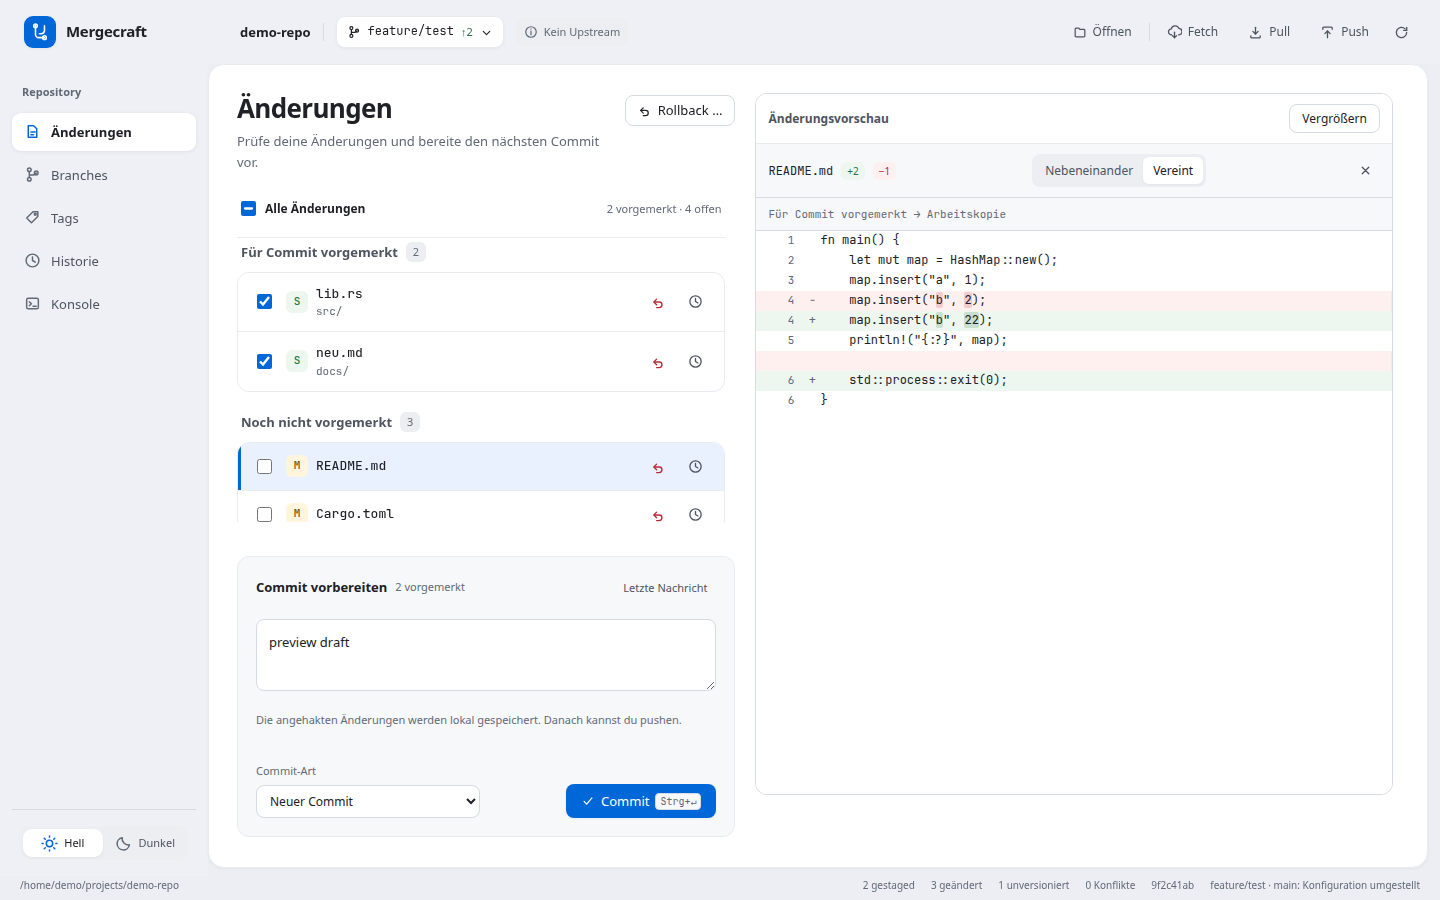
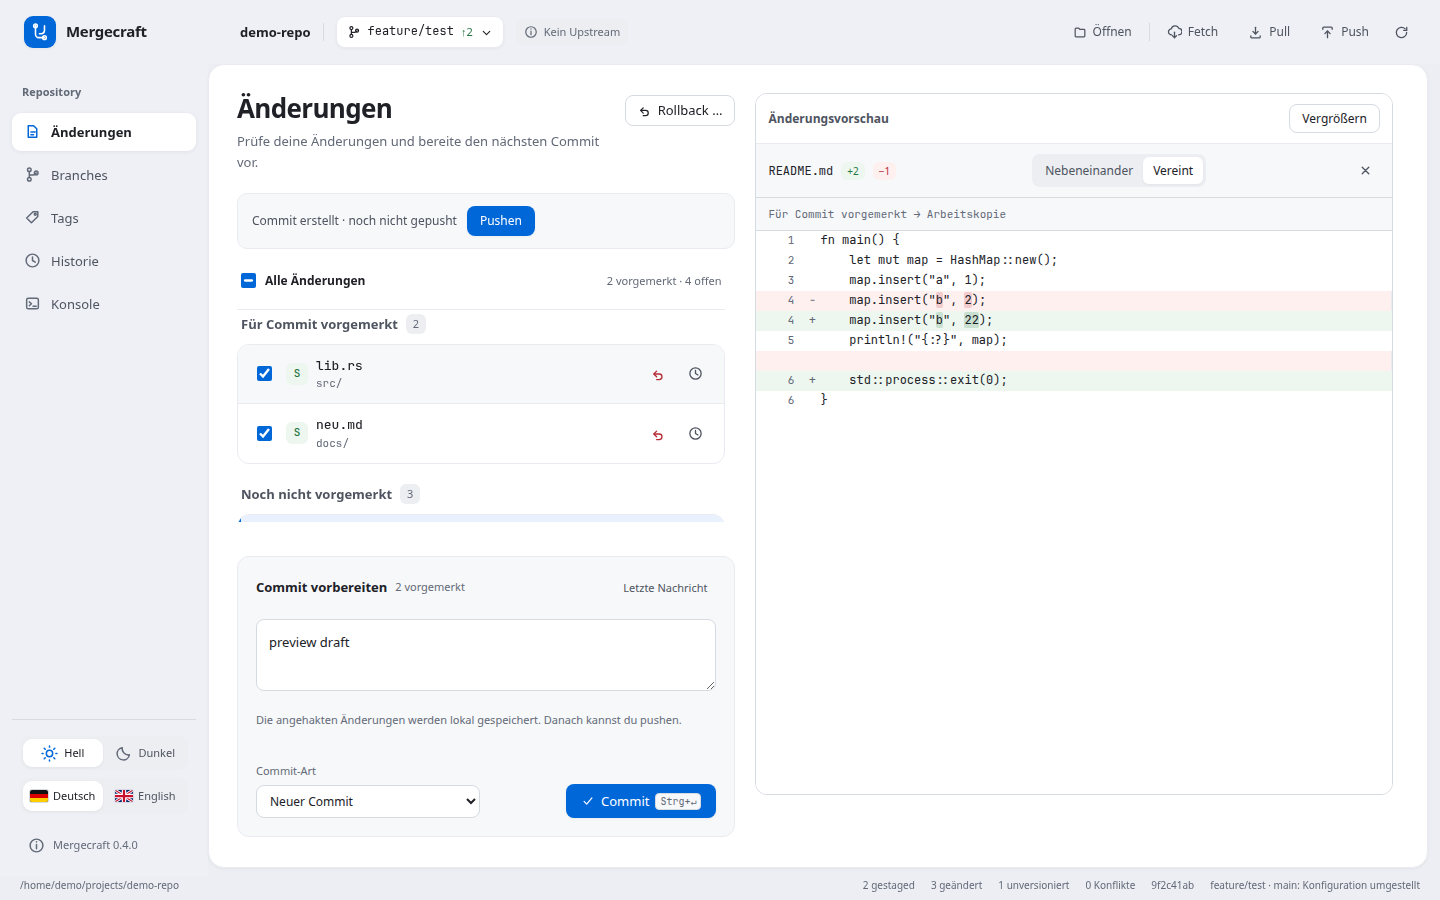
Refresh v0.4.0 screenshots and document the complete merge workflow

diff --git a/src/apple.css b/src/apple.css
@@ -639,3 +639,6 @@ button:focus-visible, input:focus-visible, textarea:focus-visible, select:focus-
 @media(max-width:768px) { .merge-workspace { flex-direction:column; } .merge-files { width:100%; max-height:100px; border-right:0; } .merge-width { display:none; } }
 
 .merge .merge-head { position:relative; z-index:20; overflow:visible; }
+
+/* Preserve code and paragraph boundaries in merge preview dialogs. */
+.modal .detail { white-space:pre-wrap; overflow-wrap:anywhere; max-height:50vh; overflow:auto; }

diff --git a/README.md b/README.md
@@ -30,7 +30,7 @@
 | --- | --- |
 | **Changes** | Review inline diffs, select files with staging checkboxes, create commits, amend the last commit, or roll back selected tracked files to HEAD. |
 | **Branches** | Search, filter and sort favorites, local branches and remote branches. Create, switch, compare and merge branches. |
-| **Merge editor** | Compare local, result and incoming text side by side. Accept either side or both, review automatic proposals, edit the result, and undo decisions. |
+| **Merge editor** | Navigate conflict files, keep drafts and undo history while switching, resize the result pane, and review explainable automatic proposals. |
 | **Tags & history** | Browse tags and commits, inspect changed files, compare revisions and follow a file's history. |
 | **Remotes** | Fetch, pull and push using your existing Git configuration and credential helpers. See unpublished commits and incoming changes. |
 
@@ -42,16 +42,45 @@ The interface supports **German and English**. Switch languages using the labele
 
 Switch immediately between **Deutsch** and **English** without reopening the repository. Drafts, filters, staging selections and merge-editor text/history stay in place. Dates and app-generated messages follow the selected language; your repository content and raw Git output are preserved.
 
-## Resolve conflicts with context
+## Follow a merge from conflict to push
 
-![Three-way conflict editor with local and incoming source panes and an editable result](docs/screenshots/mergecraft-merge.png)
+![Merge workspace showing main flowing into feature/refactor, three conflict files, and safe, review-required and manual regions](docs/screenshots/mergecraft-merge-overview.png)
 
-- **Accept local, incoming, or both** for an individual conflict; bulk actions preserve existing decisions.
-- **Auto Resolve** proposes compatible edits, including simple independent changes within a line or across multiple lines. Review each proposal before accepting it; overlapping and ambiguous edits stay manual.
-- **Undo / redo** decisions and text edits, or reset the current file's preview.
-- **Save** writes the result. **Save and mark resolved** also stages it. Unresolved conflict markers prevent marking a file resolved.
-- **Abort merge** uses `git merge --abort` for the running merge, including previously saved conflict resolutions. It does not rewrite completed merge commits. Git may be unable to reconstruct the original state if local changes existed before the merge.
-- Binary and non-UTF-8 files are handled as whole-side choices. Modify/delete conflicts also support deletion.
+**Incoming → current branch** stays visible above the three panes. The file list shows what remains open, what needs review and what is resolved. Give the result more space using the width control; decisions and text stay in place as you move between files.
+
+- **Auto Resolve** previews combinations of separate text ranges and explains why they can be combined. Accepting a batch preserves existing decisions and can be undone in one step.
+- **Review proposals** for independent edits within the same line individually. Overlaps and ambiguous edits require your decision. Automatic text combinations do not guarantee logically correct code.
+- **Accept left, accept right, edit, or left → right** for a single conflict. The last option concatenates both versions in the stated order.
+- **Save** keeps a partial result. **Apply & next file** saves and stages a resolved file. Conflict markers block resolution; stale worktree or index contents block overwriting external changes.
+- **Undo / redo**, reset the file preview, or **abort the running merge**. Abort includes saved resolutions; it does not undo completed merge commits. Git can be unable to restore the original state if local changes existed before the merge.
+
+Drafts and undo history are kept in memory for the current merge-editor session. Large conflict regions are analyzed in a background worker. Binary/non-UTF-8 files and modify/delete conflicts use explicit whole-side choices.
+
+<details>
+<summary>See the automatic preview and a proposal that needs review</summary>
+
+![Auto Resolve previews a separate-range combination before applying it](docs/screenshots/mergecraft-auto-resolve.png)
+
+![Same-line proposal expanded for individual review while a different conflict remains manual](docs/screenshots/mergecraft-review-proposal.png)
+
+</details>
+
+### Resolve → finish merge → push
+
+Resolving files prepares the result. **Finish merge** creates the merge commit. **Push** sends committed changes to the remote. Each step stays visible so a local preview cannot be mistaken for a published change.
+
+<details>
+<summary>See the resolved result, merge completion and pending push</summary>
+
+![All regions in the current file resolved, with the result ready to save](docs/screenshots/mergecraft-merge-resolved.png)
+
+![All three conflict files resolved and staged; Finish merge is the next action](docs/screenshots/mergecraft-finish-merge.png)
+
+![Merge committed locally with an explicit pending-push status](docs/screenshots/mergecraft-ready-to-push.png)
+
+</details>
+
+See the [merge workflow guide](docs/merging.md) for details.
 
 ## Review before you commit
 
@@ -70,7 +99,7 @@ Mergecraft currently targets Linux with GTK 3 and WebKitGTK 4.1. Windows and mac
 Download the `.deb` package from [Releases](https://github.com/Mohr90/mergecraft/releases), then install it on a compatible Debian/Ubuntu system:
 
 ```bash
-sudo apt install ./Mergecraft_0.3.1_amd64.deb
+sudo apt install ./Mergecraft_*.deb
 mergecraft /path/to/repository
 ```
 
@@ -93,7 +122,7 @@ npm ci
 npm run dev:web
 ```
 
-Open the local URL shown by Vite. Browser mode uses synthetic demo data and does not operate on a real repository. All screenshots in this README were captured in that demo/test mode; they contain no private repository data.
+Open the local URL shown by Vite. Browser mode uses synthetic demo data and does not operate on a real repository. Screenshots show the v0.4.0 interface using synthetic demo data, including a complete conflict-resolution tour. They contain no private repository data. The source version on `main` may be newer than the latest downloadable release.
 
 For the native application:
 

diff --git a/docs/guide.de.md b/docs/guide.de.md
@@ -31,13 +31,21 @@ Beim Wechsel zu einem Remote-Branch wird ein lokaler Tracking-Branch angelegt. E
 
 Checke zuerst den Zielbranch aus. Wähle dann beim Quellbranch **Mergen**, etwa `origin/master` in deinem Feature-Branch. Direkte lokale Merges nach `main` oder `master` werden in der GUI bewusst nicht angeboten; dafür ist ein Merge Request bzw. Pull Request auf dem Server vorgesehen.
 
-Bei Konflikten zeigt der Editor **Lokal · Ergebnis · Eingehend**. Übernimm je Bereich eine Seite, beide oder bearbeite den Ergebnistext. **Auto Resolve** liefert prüfbare Vorschläge für einfache, unabhängige Änderungen und lässt mehrdeutige Fälle offen. Die Vorschläge werden erst nach Übernahme Teil der Vorschau und erst nach Speichern auf die Platte geschrieben.
+Bei Konflikten zeigt der Editor **Aktueller Branch · Ergebnis · Eingehender Branch**. Die Richtung steht darüber, etwa `main → feature/refactor`. Links kannst du zwischen Konfliktdateien wechseln; Entscheidungen, Text, Scrollposition und Undo-Verlauf bleiben während dieser Editor-Sitzung erhalten. Über **Ergebnisbreite** passt du die Spalten an.
 
-- **Rückgängig/Wiederholen** gilt für Entscheidungen und Texte in der aktuellen Datei.
-- **Auswahl zurücksetzen** setzt die Vorschau dieser Datei auf ihren Öffnungszustand zurück.
-- **Speichern & als gelöst markieren** speichert und führt `git add` aus.
-- Nach allen Konflikten erstellt **Merge abschließen** den Merge-Commit. Danach kannst du pushen.
-- **Merge abbrechen** ruft `git merge --abort` auf. Auch gespeicherte Auflösungen gehören zum laufenden Merge. Bereits abgeschlossene Merge-Commits werden damit nicht rückgängig gemacht. Vor dem Merge vorhandene uncommittete Änderungen können Git die Wiederherstellung erschweren.
+![Dateiübersicht und Drei-Wege-Editor](screenshots/mergecraft-merge-overview.png)
+
+**Auto Resolve** unterscheidet eindeutig kombinierbare Textbereiche, prüfpflichtige Vorschläge und manuelle Entscheidungen. Die Vorschau erklärt die Kombination. Änderungen innerhalb derselben Zeile übernimmst du einzeln nach Prüfung. Das Ergebnis muss weiterhin fachlich geprüft werden.
+
+- **Links übernehmen**, **Rechts übernehmen** oder **Bearbeiten** entscheidet einen Bereich. **Links → rechts** hängt beide Fassungen in dieser Reihenfolge aneinander.
+- **Rückgängig/Wiederholen** gilt für Entscheidungen und Texte. Ein Auto-Resolve-Durchlauf lässt sich in einem Schritt zurücknehmen.
+- Unter **Weitere Aktionen** findest du das Zurücksetzen der Datei-Vorschau und **Merge abbrechen**.
+- **Speichern** schreibt einen Zwischenstand. **Übernehmen & nächste Datei** speichert und markiert die Datei mit `git add` als gelöst.
+- Extern geänderte Datei- oder Indexstände werden beim Speichern erkannt. Ein veralteter Entwurf wird erst nach deiner Entscheidung ersetzt.
+- Nach allen Konflikten erstellt **Merge abschließen** den Merge-Commit. Danach zeigt die App den noch ausstehenden **Push** an.
+- **Merge abbrechen** ruft `git merge --abort` auf und betrifft auch gespeicherte Auflösungen des laufenden Merges. Bereits abgeschlossene Merge-Commits werden damit nicht rückgängig gemacht. Vorher vorhandene lokale Änderungen können Git die Wiederherstellung erschweren.
+
+Die Screenshots verwenden ausschließlich Demo-Daten. Weitere Schritte sind im [Merge-Leitfaden](merging.md) beschrieben.
 
 ## Tastatur
 

diff --git a/CONTRIBUTING.md b/CONTRIBUTING.md
@@ -47,6 +47,8 @@ Recreate the README screenshots with synthetic data:
 MERGECRAFT_SCREENSHOT_DIR="$PWD/docs/screenshots" npm run test:browser
 ```
 
+The screenshot run also captures English workspaces and the v0.4.0 merge tour (`tests/merge-demo.cjs`). The tour includes the safe preview, a same-line proposal, manual resolution, three files, merge completion and a pending push. All data is synthetic. Set `MERGECRAFT_DEMO_GERMAN_DIR` to an output directory to capture a German copy of the tour. `CHROMIUM_PATH` can select an installed Chromium binary.
+
 ## Native workflow tests
 
 The fixtures refuse to overwrite an existing directory. Always use a fresh disposable location and separate XDG directories; never run them against your actual project.
